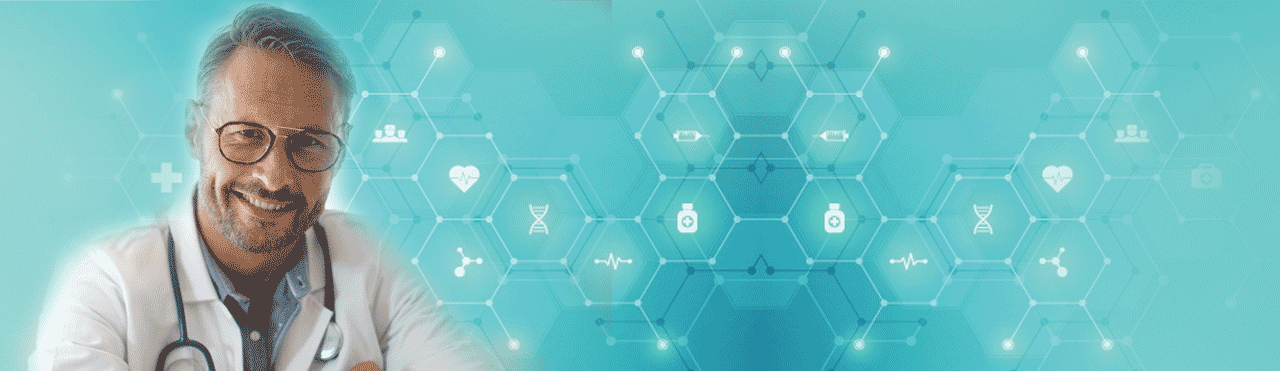
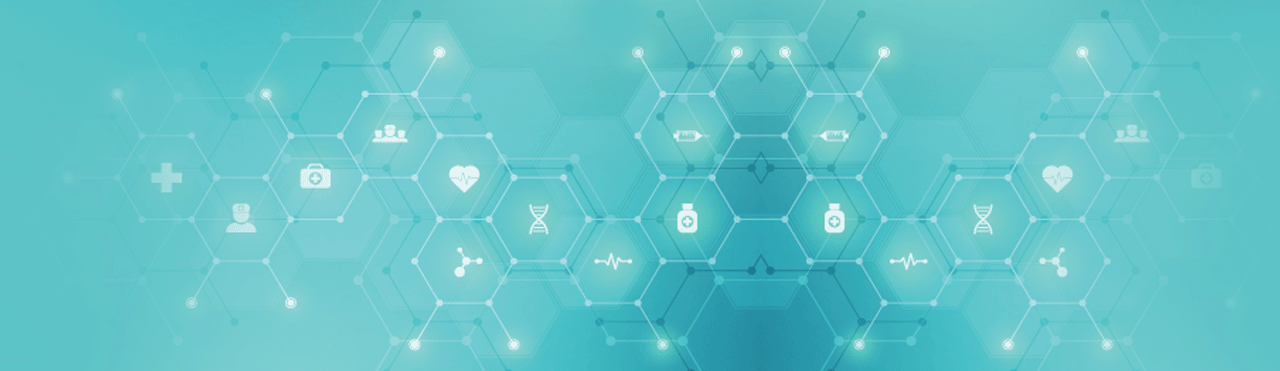
medigo_form

diff --git a/src/app/components/Home/MedicalTourism.jsx b/src/app/components/Home/MedicalTourism.jsx
@@ -1,8 +1,61 @@
 import React from 'react'
+import styles from './home.module.scss';
 
 const MedicalTourism = () => {
   return (
-    <div>MedicalTourism</div>
+    <div className={`${styles.medtmain} max-w-screen-xl mx-auto`}>
+<div className={`${styles.medt} mt-8`}> 
+<h2>Medical Tourism in India</h2>
+Medical tourism is a rapidly growing global industry, and India has emerged as one of the premier destinations for patients seeking high-quality healthcare services at affordable prices. This industry has gained immense popularity over the years, attracting a diverse range of patients from all corners of the world. In this comprehensive overview, we will delve into the key factors that make India a preferred choice for medical tourism.
+</div>
+
+      <form className={`${styles.medform}  bg-white p-8 rounded-lg`}>
+  <div className="relative z-0 w-full mb-5 group">
+      <input type="Name" name="floating_email" id="floating_name" className="block py-2.5 px-0 w-full text-sm text-gray-900 bg-transparent border-0 border-b-2 border-gray-300 appearance-none dark:text-white dark:border-gray-600 dark:focus:border-blue-500 focus:outline-none focus:ring-0 focus:border-blue-600 peer" placeholder=" " required />
+      <label for="floating_name" className="peer-focus:font-medium absolute text-sm text-gray-500 dark:text-gray-400 duration-300 transform -translate-y-6 scale-75 top-3 -z-10 origin-[0] peer-focus:start-0 rtl:peer-focus:translate-x-1/4 rtl:peer-focus:left-auto peer-focus:text-blue-600 peer-focus:dark:text-blue-500 peer-placeholder-shown:scale-100 peer-placeholder-shown:translate-y-0 peer-focus:scale-75 peer-focus:-translate-y-6">Email address</label>
+  </div>
+ 
+    <div className="relative z-0 w-full mb-5 group">
+        <input type="text" name="floating_first_name" id="floating_first_name" className="block py-2.5 px-0 w-full text-sm text-gray-900 bg-transparent border-0 border-b-2 border-gray-300 appearance-none dark:text-white dark:border-gray-600 dark:focus:border-blue-500 focus:outline-none focus:ring-0 focus:border-blue-600 peer" placeholder=" " required />
+        <label for="floating_first_name" className="peer-focus:font-medium absolute text-sm text-gray-500 dark:text-gray-400 duration-300 transform -translate-y-6 scale-75 top-3 -z-10 origin-[0] peer-focus:start-0 rtl:peer-focus:translate-x-1/4 peer-focus:text-blue-600 peer-focus:dark:text-blue-500 peer-placeholder-shown:scale-100 peer-placeholder-shown:translate-y-0 peer-focus:scale-75 peer-focus:-translate-y-6">First name</label>
+    </div>
+    <div className="relative z-0 w-full mb-5 group">
+
+        <input type="text" name="floating_last_name" id="floating_last_name" className="block py-2.5 px-0 w-full text-sm text-gray-900 bg-transparent border-0 border-b-2 border-gray-300 appearance-none dark:text-white dark:border-gray-600 dark:focus:border-blue-500 focus:outline-none focus:ring-0 focus:border-blue-600 peer" placeholder=" " required />
+        <label for="floating_last_name" className="peer-focus:font-medium absolute text-sm text-gray-500 dark:text-gray-400 duration-300 transform -translate-y-6 scale-75 top-3 -z-10 origin-[0] peer-focus:start-0 rtl:peer-focus:translate-x-1/4 peer-focus:text-blue-600 peer-focus:dark:text-blue-500 peer-placeholder-shown:scale-100 peer-placeholder-shown:translate-y-0 peer-focus:scale-75 peer-focus:-translate-y-6">Last name</label>
+    </div>
+   
+    <div className="relative z-0 w-full mb-5 group">
+  <select id="countries" className="block py-2.5 px-0 w-full text-sm text-gray-900 bg-transparent border-0 border-b-2 border-gray-300 appearance-none dark:text-white dark:border-gray-600 dark:focus:border-blue-500 focus:outline-none focus:ring-0 focus:border-blue-600 peer">
+
+    <option>United States</option>
+    <option>Canada</option>
+    <option>France</option>
+    <option>Germany</option>
+  </select>
+
+</div>
+    <div className="relative z-0  mb-5 group flex w-full space-x-4">
+    <select id="countries" className="block py-2.5 px-0  text-sm text-gray-900 bg-transparent border-0 border-b-2 border-gray-300 appearance-none dark:text-white dark:border-gray-600 dark:focus:border-blue-500 focus:outline-none focus:ring-0 focus:border-blue-600 peer">
+
+<option>+62</option>
+<option>+98</option>
+<option>+44</option>
+</select>
+        <input type="tel"  name="floating_phone" id="floating_phone" className="block py-2.5 px-0  text-sm text-gray-900 bg-transparent border-0 border-b-2 border-gray-300 appearance-none dark:text-white dark:border-gray-600 dark:focus:border-blue-500 focus:outline-none focus:ring-0 focus:border-blue-600 peer w-full" placeholder=" " required />
+        <label for="floating_phone" className="peer-focus:font-medium absolute text-sm text-gray-500 dark:text-gray-400 duration-300 transform -translate-y-6 scale-75 top-3 -z-10 origin-[0] peer-focus:start-0 rtl:peer-focus:translate-x-1/4 peer-focus:text-blue-600 peer-focus:dark:text-blue-500 peer-placeholder-shown:scale-100 peer-placeholder-shown:translate-y-0 peer-focus:scale-75 peer-focus:-translate-y-6 pl-7">Phone number</label>
+    </div>
+   
+    
+<div className="relative z-0 w-full mb-5 group">
+  <textarea id="message" rows="4" className="block py-2.5 px-0 w-full text-sm text-gray-900 bg-transparent border-0 border-b-2 border-gray-300 appearance-none dark:text-white dark:border-gray-600 dark:focus:border-blue-500 focus:outline-none focus:ring-0 focus:border-blue-600 peer" placeholder="Leave a Enquiry..."></textarea>
+
+</div>
+
+
+  <button type="submit" className="text-white bg-blue-700 hover:bg-blue-800 focus:ring-4 focus:outline-none focus:ring-blue-300 font-medium rounded-lg text-sm w-full sm:w-auto px-5 py-2.5 text-center dark:bg-blue-600 dark:hover:bg-blue-700 dark:focus:ring-blue-800">Submit</button>
+</form>
+    </div>
   )
 }
 

diff --git a/src/app/components/Home/HeroSection.jsx b/src/app/components/Home/HeroSection.jsx
@@ -10,45 +10,7 @@ const HeroSection = () => {
       
       </h1>
 
-      <form className="max-w-md mx-auto bg-white p-8 rounded-lg">
-  <div className="relative z-0 w-full mb-5 group">
-      <input type="Name" name="floating_email" id="floating_name" className="block py-2.5 px-0 w-full text-sm text-gray-900 bg-transparent border-0 border-b-2 border-gray-300 appearance-none dark:text-white dark:border-gray-600 dark:focus:border-blue-500 focus:outline-none focus:ring-0 focus:border-blue-600 peer" placeholder=" " required />
-      <label for="floating_name" className="peer-focus:font-medium absolute text-sm text-gray-500 dark:text-gray-400 duration-300 transform -translate-y-6 scale-75 top-3 -z-10 origin-[0] peer-focus:start-0 rtl:peer-focus:translate-x-1/4 rtl:peer-focus:left-auto peer-focus:text-blue-600 peer-focus:dark:text-blue-500 peer-placeholder-shown:scale-100 peer-placeholder-shown:translate-y-0 peer-focus:scale-75 peer-focus:-translate-y-6">Email address</label>
-  </div>
- 
-    <div className="relative z-0 w-full mb-5 group">
-        <input type="text" name="floating_first_name" id="floating_first_name" className="block py-2.5 px-0 w-full text-sm text-gray-900 bg-transparent border-0 border-b-2 border-gray-300 appearance-none dark:text-white dark:border-gray-600 dark:focus:border-blue-500 focus:outline-none focus:ring-0 focus:border-blue-600 peer" placeholder=" " required />
-        <label for="floating_first_name" className="peer-focus:font-medium absolute text-sm text-gray-500 dark:text-gray-400 duration-300 transform -translate-y-6 scale-75 top-3 -z-10 origin-[0] peer-focus:start-0 rtl:peer-focus:translate-x-1/4 peer-focus:text-blue-600 peer-focus:dark:text-blue-500 peer-placeholder-shown:scale-100 peer-placeholder-shown:translate-y-0 peer-focus:scale-75 peer-focus:-translate-y-6">First name</label>
-    </div>
-    <div className="relative z-0 w-full mb-5 group">
-        <input type="text" name="floating_last_name" id="floating_last_name" className="block py-2.5 px-0 w-full text-sm text-gray-900 bg-transparent border-0 border-b-2 border-gray-300 appearance-none dark:text-white dark:border-gray-600 dark:focus:border-blue-500 focus:outline-none focus:ring-0 focus:border-blue-600 peer" placeholder=" " required />
-        <label for="floating_last_name" className="peer-focus:font-medium absolute text-sm text-gray-500 dark:text-gray-400 duration-300 transform -translate-y-6 scale-75 top-3 -z-10 origin-[0] peer-focus:start-0 rtl:peer-focus:translate-x-1/4 peer-focus:text-blue-600 peer-focus:dark:text-blue-500 peer-placeholder-shown:scale-100 peer-placeholder-shown:translate-y-0 peer-focus:scale-75 peer-focus:-translate-y-6">Last name</label>
-    </div>
-   
-  
-    <div className="relative z-0 w-full mb-5 group">
-        <input type="tel" pattern="[0-9]{3}-[0-9]{3}-[0-9]{4}" name="floating_phone" id="floating_phone" className="block py-2.5 px-0 w-full text-sm text-gray-900 bg-transparent border-0 border-b-2 border-gray-300 appearance-none dark:text-white dark:border-gray-600 dark:focus:border-blue-500 focus:outline-none focus:ring-0 focus:border-blue-600 peer" placeholder=" " required />
-        <label for="floating_phone" class="peer-focus:font-medium absolute text-sm text-gray-500 dark:text-gray-400 duration-300 transform -translate-y-6 scale-75 top-3 -z-10 origin-[0] peer-focus:start-0 rtl:peer-focus:translate-x-1/4 peer-focus:text-blue-600 peer-focus:dark:text-blue-500 peer-placeholder-shown:scale-100 peer-placeholder-shown:translate-y-0 peer-focus:scale-75 peer-focus:-translate-y-6">Phone number (123-456-7890)</label>
-    </div>
-   
-    <div className="relative z-0 w-full mb-5 group">
-  <select id="countries" class="block py-2.5 px-0 w-full text-sm text-gray-900 bg-transparent border-0 border-b-2 border-gray-300 appearance-none dark:text-white dark:border-gray-600 dark:focus:border-blue-500 focus:outline-none focus:ring-0 focus:border-blue-600 peer">
-
-    <option>United States</option>
-    <option>Canada</option>
-    <option>France</option>
-    <option>Germany</option>
-  </select>
-
-</div>
-<div className="relative z-0 w-full mb-5 group">
-  <textarea id="message" rows="4" class="block py-2.5 px-0 w-full text-sm text-gray-900 bg-transparent border-0 border-b-2 border-gray-300 appearance-none dark:text-white dark:border-gray-600 dark:focus:border-blue-500 focus:outline-none focus:ring-0 focus:border-blue-600 peer" placeholder="Leave a Enquiry..."></textarea>
-
-</div>
-
-
-  <button type="submit" className="text-white bg-blue-700 hover:bg-blue-800 focus:ring-4 focus:outline-none focus:ring-blue-300 font-medium rounded-lg text-sm w-full sm:w-auto px-5 py-2.5 text-center dark:bg-blue-600 dark:hover:bg-blue-700 dark:focus:ring-blue-800">Submit</button>
-</form>
+      
 
       </div>
       </div>

diff --git a/src/app/components/Home/home.module.scss b/src/app/components/Home/home.module.scss
@@ -1,22 +1,68 @@
 
 .medbanner {
-    background: rgb(150,213,211);
-    background: linear-gradient(156deg, rgba(150,213,211,1) 0%, rgba(115,201,200,1) 100%);
-    height: 370px;
+    background: #5bc2c5;
+  
+   
 }
 
 .homebanner {
-    //background:url("../../images/home_banner_web.png"); 
+    background:url("/images/home_banner_web.png"); 
     position: relative;
+    height: 370px;
+    align-items: center;
+    display:flex;
+    @media (max-width: 768px){
+height: 150PX;
+    }
     h1 {
         font-size: 40px;
         color: #0470BA;
         width: 50%;
         text-align: center;
+        @media (max-width: 992px) {
+            font-size: 20px;
+            width: 100%;
+        }
        }
-       form {    position: absolute;
-        width: 415px;
-        right: 0;
-        top: 80px;}
 }
 
+.medtmain {
+    display: flex;
+    justify-content: space-between;
+    @media (max-width: 768px)
+    {
+       flex-direction:column-reverse;
+
+    }
+
+  
+}
+
+
+.medt {
+    width: 60%;
+    @media (max-width: 768px)
+    {
+        width: 90%;
+        margin: 5px auto;
+    }
+    h2 {
+        font-size: 24px;
+        line-height: 30px;
+        padding-bottom: 20PX;
+    }
+}
+
+
+.medform {   
+    width: 415px;
+    right: 0;
+    margin-top: -150px;
+    z-index: 5;
+
+    @media (max-width: 992px) {
+        width: 90%;
+        margin: 0 5%;
+
+       }
+    }

diff --git a/src/app/components/Header/page.jsx b/src/app/components/Header/page.jsx
@@ -60,13 +60,11 @@ const Header = () => {
             </div>
         </li>
         <li>
-          <a href="#" className="block py-2 px-3 md:p-0 ">Services</a>
+          <a href="#" className="block py-2 px-3 md:p-0 ">Medical Tourism</a>
         </li>
+       
         <li>
-          <a href="#" className="block py-2 px-3 md:p-0">Pricing</a>
-        </li>
-        <li>
-          <a href="#" className="block py-2 px-3 md:p-0">Contact</a>
+          <a href="#" className="block py-2 px-3 md:p-0">Enquire</a>
         </li>
       </ul>
     </div>

diff --git a/src/app/layout.js b/src/app/layout.js
@@ -16,7 +16,7 @@ export default function RootLayout({ children }) {
       <body className={inter.className}>
         <Header />
 
-        <main className="bg-gray-100">{children}</main>
+        <main className="bg-white-100">{children}</main>
         <Footer />
       </body>
     </html>
